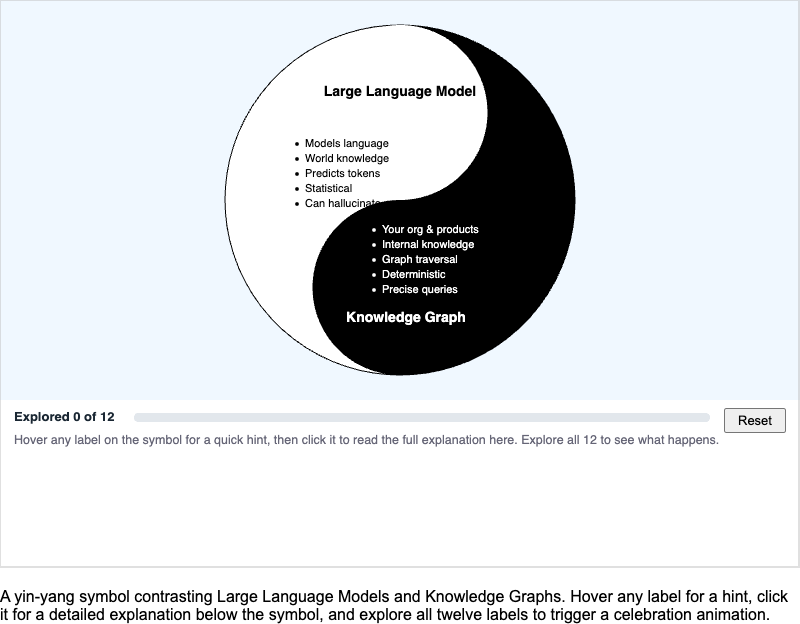
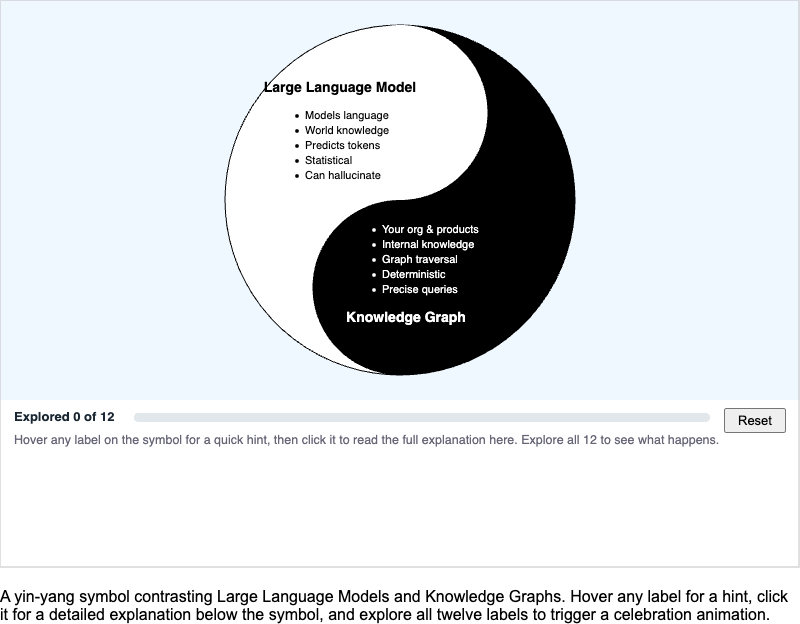
yin-yang-llm-kg: shift LLM title left and tighten its feature list
Move the 'Large Language Model' title left so it centers over its bullet list, and
raise the list closer to the title — grouping the LLM content in the upper-left white
region for a more balanced layout.

Changed region(s): [[0.3125, 0.1218, 0.5938, 0.3349]]

diff --git a/docs/sims/yin-yang-llm-kg/yin-yang-llm-kg.js b/docs/sims/yin-yang-llm-kg/yin-yang-llm-kg.js
@@ -193,9 +193,9 @@ function drawLabels() {
 
   // Yang (LLM) — black text, top/left white region
   textStyle(BOLD);
-  label('y0', DATA.yang.title.label, cx, cy - 108, CENTER, 'black', 14, false);
+  label('y0', DATA.yang.title.label, cx - 60, cy - 112, CENTER, 'black', 14, false);
   textStyle(NORMAL);
-  let yx = cx - 95, yy = cy - 56;
+  let yx = cx - 95, yy = cy - 84;
   DATA.yang.features.forEach((f, i) => label(f.key, f.label, yx, yy + i * lh, LEFT, 'black', 11, true));
 
   // Yin (KG) — white text, bottom/right black region
